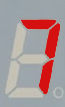
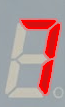
Refactor main.py and update asset images
Improves code structure in main.py with clearer comments, dictionary usage for hex digit images, and more readable logic for switch handling and value calculation. Updates multiple PNG assets and adds a minimal test.py file for future testing.

Changed region(s): [[0.2769, 0.1682, 0.9538, 0.8972]]

diff --git a/main.py b/main.py
@@ -1,62 +1,96 @@
+# IMPORTS & INITIAL SETUP
 import pygame, os, sys
 
 pygame.init()
 screen = pygame.display.set_mode((1040, 800))
 pygame.display.set_caption("4-bit adder")
 
-# Load images
-bg  = pygame.transform.smoothscale(
-    pygame.image.load(os.path.join("assets", "FPGAB.png")), (1040, 800))
-su  = pygame.image.load(os.path.join("assets", "su.png"))
-sd  = pygame.image.load(os.path.join("assets", "sd.png"))
-led = pygame.image.load(os.path.join("assets", "ledon.png"))
+# IMAGE LOADING - Load background and switch/LED images
+bg  = pygame.transform.smoothscale(pygame.image.load(os.path.join("assets", "FPGAB.png")), (1040, 800)) # FPGA Board
+su  = pygame.image.load(os.path.join("assets", "su.png"))    # switch up
+sd  = pygame.image.load(os.path.join("assets", "sd.png"))    # switch down
+led = pygame.image.load(os.path.join("assets", "ledon.png")) # LED on
 
+# HEX DIGIT IMAGES (0–F) IN DICTIONARY
 hexsurf = {}
-for n in range(10):
-    hexsurf[n] = pygame.image.load(os.path.join("assets", f"{n}.png"))
-for let, file in ((10,"A.png"), (11,"b.png"), (12,"C.png"),
-                  (13,"d.png"), (14,"E.png"), (15,"F.png")):
-    hexsurf[let] = pygame.image.load(os.path.join("assets", file))
 
-# Positions (original X-axis, -52 pixels on Y-axis)
+# Digits 0–9
+for i in range(10):
+    hexsurf[i] = pygame.image.load(os.path.join("assets", f"{i}.png"))
+
+# Letters A–F
+letters = ["A", "b", "C", "d", "E", "F"]
+for i, letter in enumerate(letters, start=10):
+    hexsurf[i] = pygame.image.load(os.path.join("assets", f"{letter}.png"))
+
+
+# IMAGE POSITIONS ON THE BOARD
 SW_POS  = {9:(521,649), 8:(566,649), 7:(610,650), 6:(657,649),
            5:(703,649), 4:(749,650), 3:(794,649), 2:(838,649),
            1:(884,648), 0:(928,648)}
+
 LED_POS = {9:(528,614), 8:(572,614), 7:(617,614), 6:(661,614),
            5:(705,613), 4:(750,613), 3:(795,613), 2:(839,614),
            1:(884,614), 0:(928,614)}
+
 HEX_POS = {'HEX5':(68,618), 'HEX4':(140,619), 'HEX3':(221,619),
            'HEX2':(293,620), 'HEX1':(372,618), 'HEX0':(444,618)}
 
-switch = {i:False for i in range(10)}
 
+# Each switch (0–9) starts OFF (False)
+switch = {i: False for i in range(10)}
+
+# Logic Function – Get Value from Switches
 def get_value(sw_list):
-    return sum(1<<(3-i) for i,sw in enumerate(sw_list) if switch[sw])
+    value = 0
+    for i, sw in enumerate(sw_list):
+        if switch[sw]:                # Switch ON => Calculate Bit
+            bit_value = 2 ** (3 - i)  # i = index, determines bit position
+            value += bit_value
+    return value                      # Switch OFF => Return 0 
 
 clock = pygame.time.Clock()
+
+# Main Loop
 while True:
+
+    # User Input - Window Close OR Click Switch
     for e in pygame.event.get():
         if e.type == pygame.QUIT:
-            pygame.quit(); sys.exit()
+            pygame.quit()
+            sys.exit()
+
         if e.type == pygame.MOUSEBUTTONDOWN:
-            for sw, (x,y) in SW_POS.items():
-                if pygame.Rect(x, y, su.get_width(), su.get_height()).collidepoint(e.pos):
-                    switch[sw] = not switch[sw]
+            for sw, (x, y) in SW_POS.items():
+                rect = pygame.Rect(x, y, su.get_width(), su.get_height())
+                if rect.collidepoint(e.pos):
+                    switch[sw] = not switch[sw]  # toggle switch on click
 
-    a = get_value([9,8,7,6])
-    b = get_value([3,2,1,0])
-    s = a + b
+    # CALCULATIONS
+    a = get_value([9, 8, 7, 6])  # Switch: 9876
+    b = get_value([3, 2, 1, 0])  # Switch: 3210
+    s = a + b                    # sum of 4-bit Switches
 
-    screen.blit(bg, (0,0))
+    # Image Updating
+    screen.blit(bg, (0, 0))  # draw background
+
+    # Draw switches and LEDs
     for sw, pos in SW_POS.items():
         screen.blit(su if switch[sw] else sd, pos)
-        if switch[sw]:
-            screen.blit(led, LED_POS[sw])
 
-    screen.blit(hexsurf[a],      HEX_POS['HEX4'])
-    screen.blit(hexsurf[b],      HEX_POS['HEX2'])
-    screen.blit(hexsurf[s & 0xF], HEX_POS['HEX0'])
-    screen.blit(hexsurf[s >> 4],  HEX_POS['HEX1'])
+        # SWITCH ON => LED ON
+        #if switch[sw]:
+        #    screen.blit(led, LED_POS[sw])
 
-    pygame.display.flip()
-    clock.tick(30)
+    # LED always ON
+    #for pos in LED_POS.values():
+        #screen.blit(led, pos)
+
+    # Draw hexadecimal displays
+    screen.blit(hexsurf[a],        HEX_POS['HEX4'])
+    screen.blit(hexsurf[b],        HEX_POS['HEX2'])
+    screen.blit(hexsurf[s & 0xF],  HEX_POS['HEX0'])  # Result - last 4 bits of the sum
+    screen.blit(hexsurf[s >> 4],   HEX_POS['HEX1'])  # Carry Over - Return remaining bits after shifting 4 bits right
+
+    pygame.display.flip()  # refresh screen
+    clock.tick(30)         # 30 frames per second
